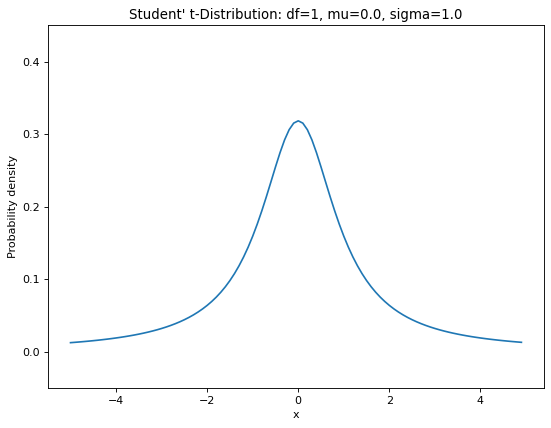
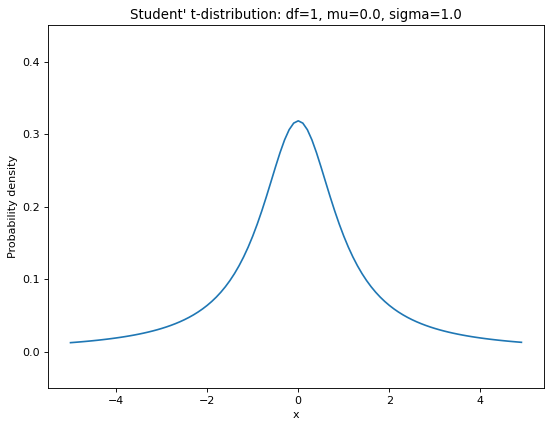
Update

Changed region(s): [[0.2468, 0.0, 0.7713, 0.0607], [0.8022, 0.0, 0.833, 0.0607]]

diff --git a/distribution.py b/distribution.py
@@ -35,7 +35,7 @@ plt.show()
 
 
 
-# Student's t-Distribution
+# Student's t-distribution
 mu = 0 # mean
 sigma = 1 # standard deviation
 df = 1
@@ -44,7 +44,7 @@ x = np.arange(-5,5,0.1)
 y = stats.t.pdf(x, df, mu, sigma)
 plt.figure(num=None, figsize=(8, 6), dpi=80, facecolor='w', edgecolor='k')
 plt.plot(x, y)
-plt.title('Student\' t-Distribution: df=%.0f, mu=%.1f, sigma=%.1f'%(df, mu, sigma))
+plt.title('Student\' t-distribution: df=%.0f, mu=%.1f, sigma=%.1f'%(df, mu, sigma))
 plt.xlabel('x')
 plt.ylabel('Probability density')
 plt.ylim(-0.05, 0.45)
@@ -53,7 +53,7 @@ plt.show()
 y = stats.t.cdf(x, df, mu, sigma)
 plt.figure(num=None, figsize=(8, 6), dpi=80, facecolor='w', edgecolor='k')
 plt.plot(x, y)
-plt.title('Student\' t-Distribution: df=%.0f, mu=%.1f, sigma=%.1f'%(df, mu, sigma))
+plt.title('Student\' t-distribution: df=%.0f, mu=%.1f, sigma=%.1f'%(df, mu, sigma))
 plt.xlabel('x')
 plt.ylabel('Cumulative distribution')
 plt.ylim(-0.1, 1.1)
